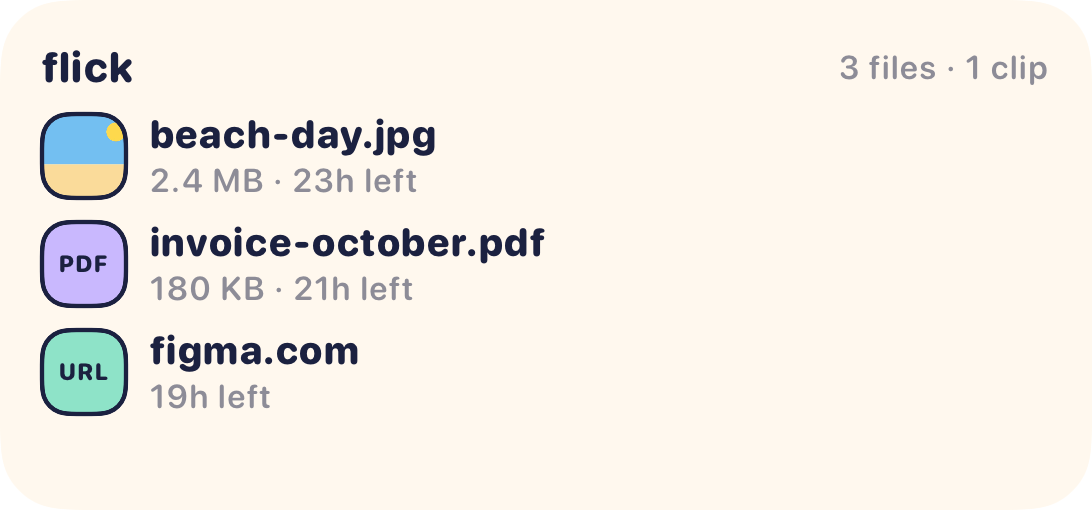
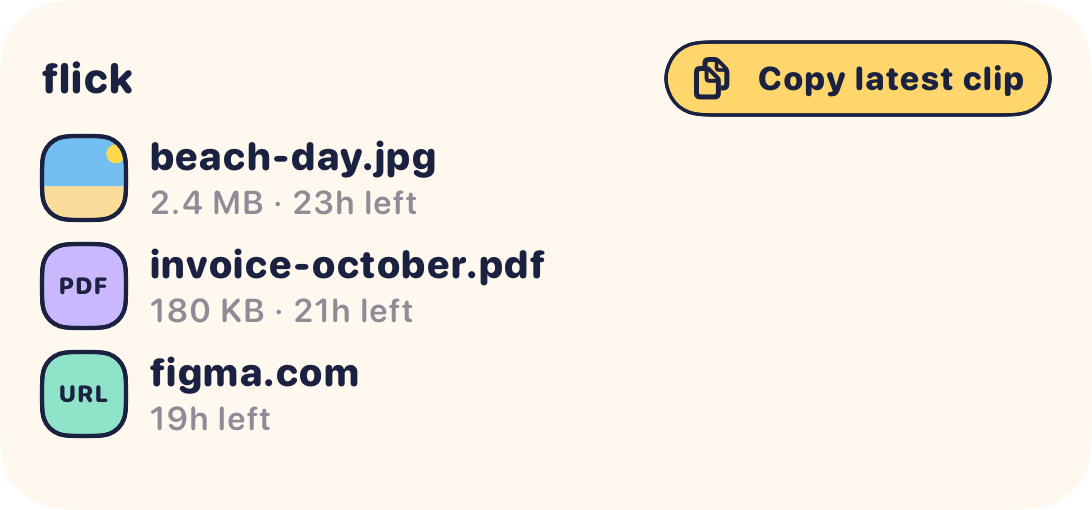
flick-mobile: Copy latest clip on the iOS widget (B3)
An iOS 17 App Intent button (Copy latest clip / Copy) copies the newest
clip from the shared snapshot without opening Flick. Fallback: tapping a
clip on the widget opens flick://clip/<id>?copy=1 and the app copies it,
in case iOS doesn't let the widget reach the clipboard. Verified: builds
for the iOS Simulator; screenshots from the real widget views.

Changed region(s): [[0.0311, 0.0882, 0.4982, 0.8824], [0.5916, 0.0588, 0.9652, 0.2353]]

diff --git a/flick-mobile/targets/widget/HomeWidget.swift b/flick-mobile/targets/widget/HomeWidget.swift
@@ -59,7 +59,9 @@ struct ItemRow: View {
   let now: Date
 
   var body: some View {
-    Link(destination: URL(string: item.url)!) {
+    // Clip rows ask the app to copy on open (works even if the widget's
+    // own Copy button can't reach the clipboard).
+    Link(destination: URL(string: item.kind == "clip" ? item.url + "?copy=1" : item.url)!) {
       HStack(spacing: 8) {
         ItemIcon(item: item)
         VStack(alignment: .leading, spacing: 1) {
@@ -134,11 +136,17 @@ struct FlickHomeView: View {
       Text(latest.title)
         .font(.system(size: 13, weight: .heavy, design: .rounded))
         .lineLimit(2)
-      Text(timeLeft(latest, now: entry.date))
-        .font(.system(size: 11, weight: .semibold, design: .rounded))
-        .foregroundStyle(.secondary)
+      HStack {
+        Text(timeLeft(latest, now: entry.date))
+          .font(.system(size: 11, weight: .semibold, design: .rounded))
+          .foregroundStyle(.secondary)
+        Spacer(minLength: 0)
+        if latest.kind == "clip" {
+          CopyClipButton(compact: true)
+        }
+      }
     }
-    .widgetURL(URL(string: latest.url))
+    .widgetURL(URL(string: latest.kind == "clip" ? latest.url + "?copy=1" : latest.url))
   }
 
   // Up to 3 rows (a 4th with Copy latest clip comes with the iOS 17 button).
@@ -147,9 +155,13 @@ struct FlickHomeView: View {
       HStack {
         Text("flick").font(.system(size: 14, weight: .heavy, design: .rounded))
         Spacer()
-        Text("\(plural(entry.snapshot.fileCount, "file")) · \(plural(entry.snapshot.clipCount, "clip"))")
-          .font(.system(size: 11, weight: .semibold, design: .rounded))
-          .foregroundStyle(.secondary)
+        if entry.snapshot.latestClip != nil {
+          CopyClipButton()
+        } else {
+          Text("\(plural(entry.snapshot.fileCount, "file")) · \(plural(entry.snapshot.clipCount, "clip"))")
+            .font(.system(size: 11, weight: .semibold, design: .rounded))
+            .foregroundStyle(.secondary)
+        }
       }
       ForEach(items.prefix(3)) { item in
         ItemRow(item: item, now: entry.date)

diff --git a/flick-mobile/src/components/HomeScreen.tsx b/flick-mobile/src/components/HomeScreen.tsx
@@ -11,6 +11,7 @@ import { useDevice } from "../hooks/useDevice";
 import { useUsage } from "../hooks/useUsage";
 import { useWidgetSnapshot } from "../hooks/useWidgetSnapshot";
 import { useDeepLinkTarget } from "../hooks/useDeepLinkTarget";
+import * as Clipboard from "expo-clipboard";
 import { useNow } from "../hooks/useNow";
 import { useOpenFile } from "../hooks/useOpenFile";
 import { usePinFile } from "../hooks/usePinFile";
@@ -93,7 +94,18 @@ export function HomeScreen({ userId, email, onSignOut }: Props) {
     const target = deepLink.target;
     if (!target) return;
     if (target.kind === "clip") {
-      if (clipsOn) changeTab("clips");
+      if (!clipsOn) {
+        deepLink.consume();
+        return;
+      }
+      changeTab("clips");
+      if (target.copy) {
+        // From the widget: copy that clip (the widget's own Copy button
+        // can't always reach the clipboard).
+        const clip = clips.clips.find((c) => c.id === target.id);
+        if (!clip) return; // wait for clips to load
+        void Clipboard.setStringAsync(clip.content);
+      }
       deepLink.consume();
       return;
     }
@@ -102,7 +114,7 @@ export function HomeScreen({ userId, email, onSignOut }: Props) {
     setTab("files");
     setMenu({ file, anchorY: tokens.layout.minTouchTarget * 4 });
     deepLink.consume();
-  }, [deepLink.target, recent.files, clipsOn]);
+  }, [deepLink.target, recent.files, clipsOn, clips.clips]);
 
   const tabs = clipsOn ? <Tabs tab={activeTab} onChange={changeTab} clipsDot={clips.hasNew} slim={compact} /> : null;
   // Compact: Settings / Sign out live in a ⋯ menu in the header.

diff --git a/flick-mobile/targets/widget/CopyClipIntent.swift b/flick-mobile/targets/widget/CopyClipIntent.swift
@@ -1,0 +1,38 @@
+import AppIntents
+import SwiftUI
+import UIKit
+import WidgetKit
+
+// "Copy latest clip" on the widget (iOS 17 interactive widgets). Copies the
+// newest clip from the shared snapshot without opening Flick. If iOS ever
+// refuses the clipboard to the widget, tapping the clip row still works:
+// it opens Flick with ?copy=1 and the app copies it.
+struct CopyLatestClipIntent: AppIntent {
+  static var title: LocalizedStringResource = "Copy latest clip"
+  static var description = IntentDescription("Copies your newest Flick clip to the clipboard.")
+
+  func perform() async throws -> some IntentResult {
+    if let clip = SharedStore.load().latestClip {
+      UIPasteboard.general.string = clip.content
+    }
+    return .result()
+  }
+}
+
+// Small sticker button used on the widgets.
+struct CopyClipButton: View {
+  var compact = false
+
+  var body: some View {
+    Button(intent: CopyLatestClipIntent()) {
+      Label(compact ? "Copy" : "Copy latest clip", systemImage: "doc.on.doc")
+        .font(.system(size: 11, weight: .heavy, design: .rounded))
+        .padding(.horizontal, 8)
+        .padding(.vertical, 4)
+        .background(Capsule().fill(FlickColor.yellow))
+        .overlay(Capsule().stroke(FlickColor.navy, lineWidth: 1.2))
+        .foregroundStyle(FlickColor.navy)
+    }
+    .buttonStyle(.plain)
+  }
+}

diff --git a/flick-mobile/src/hooks/useDeepLinkTarget.ts b/flick-mobile/src/hooks/useDeepLinkTarget.ts
@@ -1,7 +1,7 @@
 import { useEffect, useState } from "react";
 import * as Linking from "expo-linking";
 
-export type DeepLinkTarget = { kind: "file" | "clip"; id: string };
+export type DeepLinkTarget = { kind: "file" | "clip"; id: string; copy: boolean };
 
 // flick://file/<id> and flick://clip/<id> (from the widgets). Returns the
 // latest target; call `consume` once it's been handled.
@@ -11,11 +11,11 @@ export function useDeepLinkTarget() {
 
   useEffect(() => {
     if (!url) return;
-    const { hostname, path } = Linking.parse(url);
+    const { hostname, path, queryParams } = Linking.parse(url);
     // "flick://file/<id>" parses as host "file", path "<id>".
     const kind = hostname === "file" || hostname === "clip" ? hostname : null;
     const id = path?.split("/").filter(Boolean)[0];
-    if (kind && id) setTarget({ kind, id });
+    if (kind && id) setTarget({ kind, id, copy: queryParams?.copy === "1" });
   }, [url]);
 
   return { target, consume: () => setTarget(null) };
